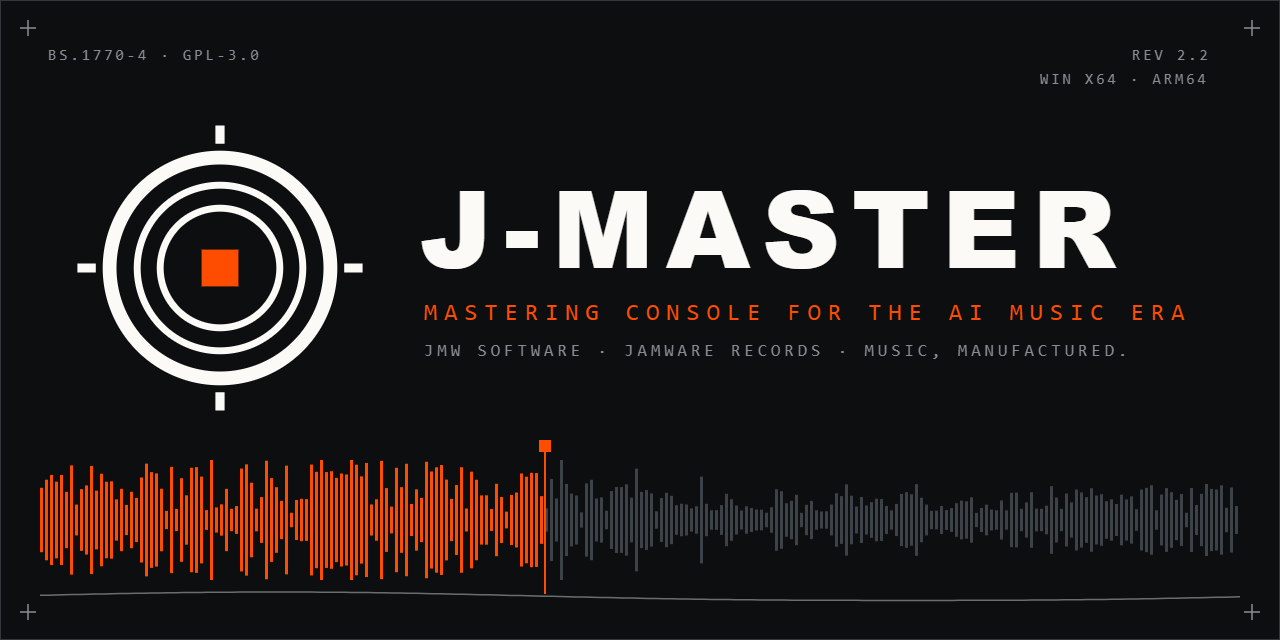
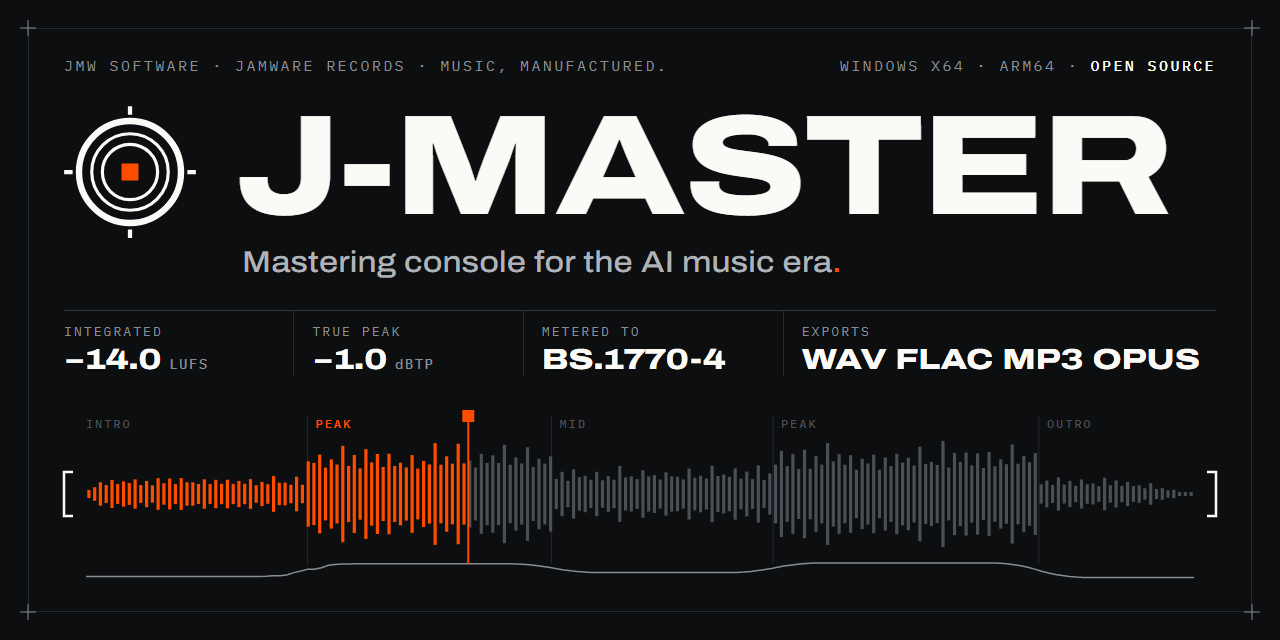
New social preview card, drawn by a script
The card carries no version number, so it never goes stale.
Regenerate it with: node scripts/make-social-preview.mjs

diff --git a/README.md b/README.md
@@ -484,6 +484,7 @@ node scripts/make-banners.mjs      # animated banners; type set as vector paths
 npm run build
 node scripts/capture-screens.mjs   # screenshots (the report shot needs Microsoft Edge)
 node scripts/capture-media.mjs     # GIFs (needs ffmpeg on PATH)
+node scripts/make-social-preview.mjs  # the repository's social preview card (needs Edge)
 ```
 
 The scripts open the app without taking the keyboard focus, so you can keep
